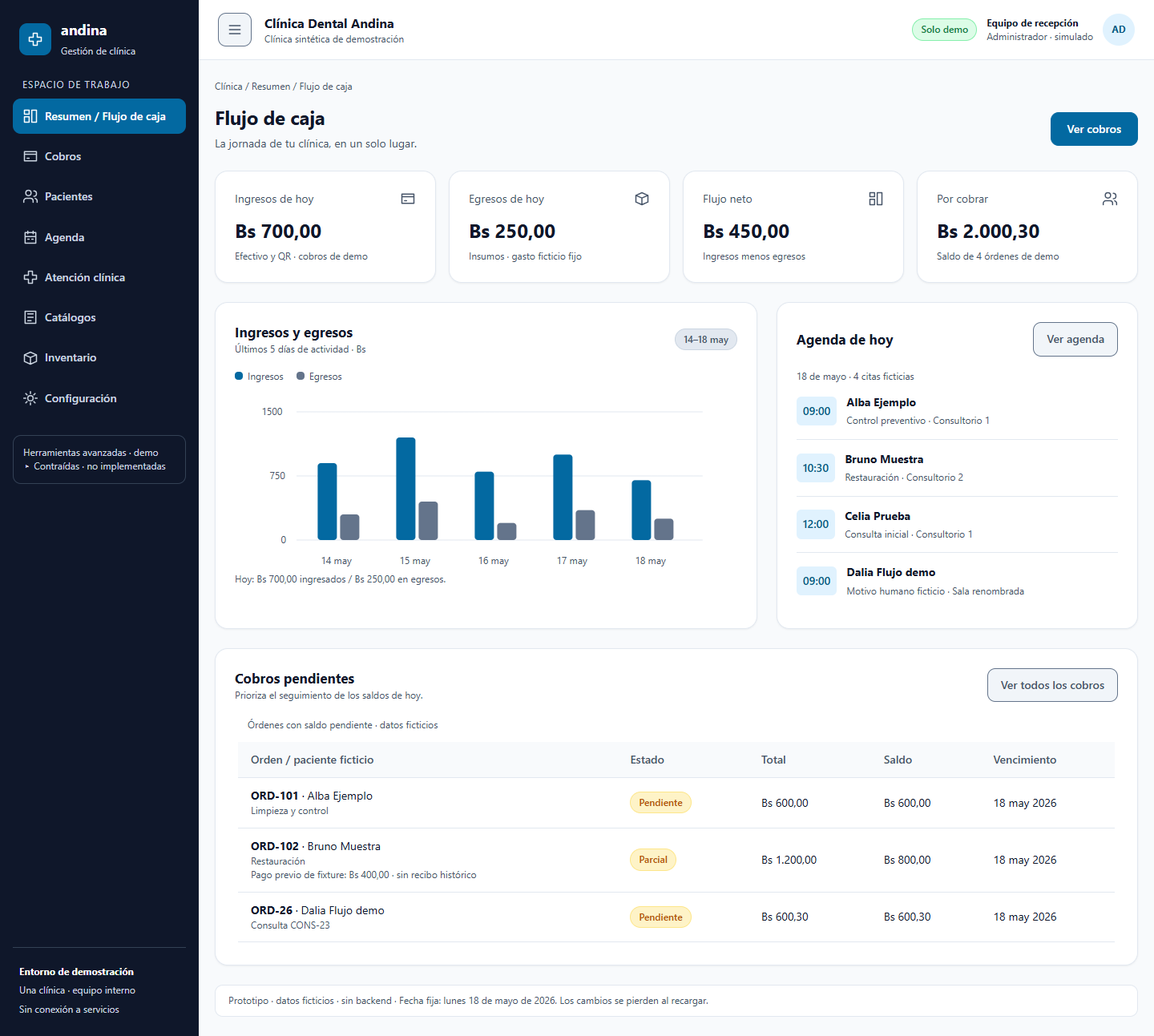
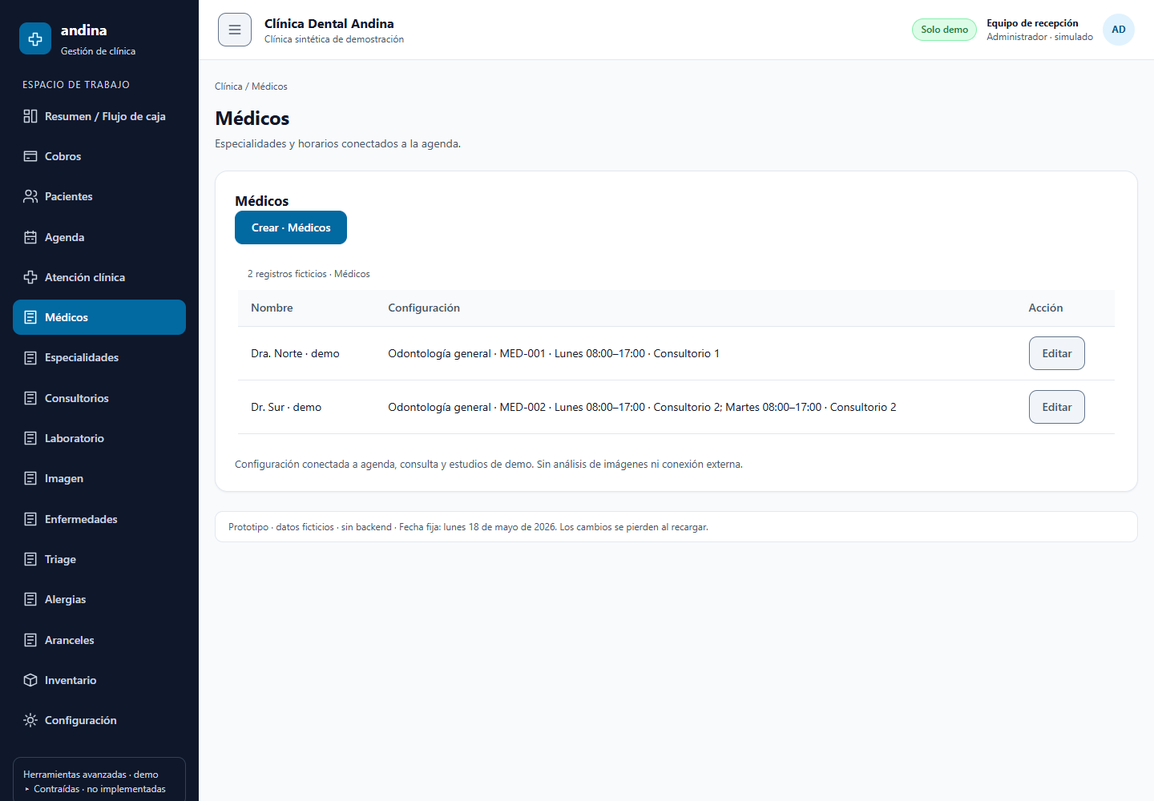
feat(prototype): split resource menus and add habits references and triage

diff --git a/design/erp-workspace/01-unified-workspace.html b/design/erp-workspace/01-unified-workspace.html
@@ -41,7 +41,7 @@ small,.small { font-size:12px; }
 .muted { color:var(--secondary); }
 svg.icon { width:20px; height:20px; flex:none; fill:none; stroke:currentColor; stroke-width:1.8; stroke-linecap:round; stroke-linejoin:round; }
 .shell { display:grid; grid-template-columns:248px minmax(0,1fr); grid-template-rows:auto 1fr; min-height:100vh; }
-.sidebar { grid-row:1 / 3; background:#0f172a; color:#ffffff; padding:24px 16px; display:flex; flex-direction:column; gap:24px; }
+.sidebar { position:sticky; top:0; height:100vh; overflow-y:auto; grid-row:1 / 3; background:#0f172a; color:#ffffff; padding:24px 16px; display:flex; flex-direction:column; gap:24px; }
 .brand { display:flex; gap:12px; align-items:center; padding:0 8px; }
 .brand-mark { width:40px; height:40px; display:grid; place-items:center; background:#0369a1; border-radius:10px; }
 .brand strong { font-size:18px; display:block; }
@@ -205,6 +205,15 @@ body.nav-collapsed .sidebar { display:none; }
   <div class="dialog-actions"><button type="button" data-close="context-dialog">Cancelar</button><button type="submit" class="primary">Guardar antecedente</button></div>
  </form>
 </dialog>
+<dialog id="habits-dialog" aria-labelledby="habits-title">
+ <form id="habits-form" novalidate>
+  <h2 id="habits-title">Editar hábitos</h2>
+  <label>Hábitos<textarea id="habits-text" maxlength="1000" aria-describedby="habits-help"></textarea></label>
+  <p id="habits-help" class="help">Texto libre ficticio · Máximo 1000 caracteres. Vacío significa Sin registrar. Sin clasificación ni diagnóstico automático.</p>
+  <p id="habits-error" class="error" role="alert"></p>
+  <div class="dialog-actions"><button type="button" data-close="habits-dialog">Cancelar</button><button type="submit" class="primary">Guardar hábitos</button></div>
+ </form>
+</dialog>
 <dialog id="catalog-dialog" aria-labelledby="catalog-title">
  <form id="catalog-form" novalidate>
   <h2 id="catalog-title"></h2>
@@ -285,14 +294,22 @@ const iconPaths = {
  inventory:'M3 7l9-4 9 4v10l-9 4-9-4zM3 7l9 4 9-4M12 11v10',
  settings:'M12 8a4 4 0 1 0 0 8 4 4 0 0 0 0-8M12 2v3M12 19v3M2 12h3M19 12h3M5 5l2 2M17 17l2 2M5 19l2-2M17 7l2-2'
 };
-function icon(key) { return `<svg class="icon" viewBox="0 0 24 24" aria-hidden="true"><path d="${iconPaths[key]}"/></svg>`; }
+function icon(key) { return `<svg class="icon" viewBox="0 0 24 24" aria-hidden="true"><path d="${iconPaths[key] || iconPaths.catalogs}"/></svg>`; }
 const pages = {
  overview:['Resumen / Flujo de caja','Flujo de caja','La jornada de tu clínica, en un solo lugar.'],
  payments:['Cobros','Cobros','Saldos y cobros de órdenes ficticias.'],
  patients:['Pacientes','Pacientes','Directorio sintético de la clínica.'],
  agenda:['Agenda','Agenda','Citas de demostración · semana del 18 al 24 de mayo de 2026.'],
  clinical:['Atención clínica','Atención clínica','Resumen de consultas ficticias; no sustituye una historia clínica.'],
- catalogs:['Catálogos','Catálogos','Recursos y estudios ficticios · configuración local para agenda y atención.'],
+ physicians:['Médicos','Médicos','Especialidades y horarios conectados a la agenda.'],
+ specialties:['Especialidades','Especialidades','Referencias de especialidad del equipo ficticio.'],
+ rooms:['Consultorios','Consultorios','Espacios y disponibilidad de la clínica ficticia.'],
+ laboratory:['Laboratorio','Laboratorio','Proveedores y tipos de estudio · solo LABORATORIO.'],
+ imaging:['Imagen','Imagen','Proveedores y tipos de estudio · solo IMAGEN.'],
+ diseases:['Enfermedades','Enfermedades','Referencias de clínica, no diagnósticos de pacientes.'],
+ allergyCatalog:['Alergias','Alergias','Referencias de clínica, distintas de las alergias del paciente.'],
+ triage:['Triage','Triage','Vista inicial de Triage · campos y protocolo por definir'],
+ catalogs:['Aranceles','Aranceles','Procedimientos y tarifas ficticias de consulta.'],
  inventory:['Inventario','Inventario','Disponibilidad y alertas de insumos de demostración.'],
  settings:['Configuración','Configuración','Personaliza este espacio. Todo se guarda solo en memoria.']
 };
@@ -323,7 +340,7 @@ const state = {
   {id:'AV-2',physicianId:'PH-2',weekday:1,start:'08:00',end:'17:00',roomId:'RM-2'},
   {id:'AV-3',physicianId:'PH-2',weekday:2,start:'08:00',end:'17:00',roomId:'RM-2'}
  ],
- providers:[], studyTypes:[], patientContexts:[], nextId:10
+ providers:[], studyTypes:[], diseases:[], allergyCatalog:[], patientContexts:[], nextId:10
 };
 // Preserve every inherited fixture while moving references to stable resource IDs.
 state.appointments.forEach((item,index) => {
@@ -371,7 +388,11 @@ function navigate(page, moveFocus = true) {
  announce('');
  renderNav();
  const renderers = {overview:renderOverview,payments:renderPayments,patients:renderPatients,agenda:renderAgenda,clinical:renderClinical,inventory:renderInventory,catalogs:renderCatalogs,settings:renderSettings};
- renderers[page]();
+ if(catalogRoutes[page] || catalogMode()) {
+  catalogKind=catalogRoutes[page] || modalityViews[page];
+  renderCatalogs();
+ } else if(page==='triage') renderTriage();
+ else renderers[page]();
  setDrawer(false);
  if (moveFocus) $('#main').focus();
 }
@@ -520,18 +541,53 @@ let contextDraft=null;
 function patientContext(patientId) {
  return state.patientContexts.find(item=>item.patientId===patientId) || {patientId,allergies:[],familyHistory:[],personalHistory:[]};
 }
-function clinicalContextMarkup(patientId) {
+function clinicalContextMarkup(patientId,readOnly=false) {
  const context=patientContext(patientId);
- return Object.entries(contextLabels).map(([kind,label])=>`
+ const habits=`<section style="margin-top:24px" aria-label="Hábitos"><div class="card-heading"><h3>Hábitos</h3>${readOnly?'':'<button type="button" data-habits-edit>Editar hábitos</button>'}</div><p class="summary" data-habits-summary>${escapeText(context.habits || 'Sin registrar')}</p></section>`;
+ return habits+'<div data-context-history>'+Object.entries(contextLabels).map(([kind,label])=>`
   <section style="margin-top:24px" aria-label="${label}">
-   <div class="card-heading"><h3>${label}</h3><button type="button" data-context-add="${kind}">Añadir · ${label}</button></div>
+   <div class="card-heading"><h3>${label}</h3>${readOnly?'':`<button type="button" data-context-add="${kind}">Añadir · ${label}</button>`}</div>
    <div id="context-${kind}">${context[kind].map(entry=>`
     <div class="summary" style="margin-bottom:12px">
      <p>${escapeText(kind==='allergies'?`${entry.substance} · ${entry.reaction} · ${entry.severity}`:kind==='familyHistory'?`${entry.relation} · ${entry.condition}`:entry.notes)}</p>
-     <button type="button" data-context-edit="${entry.id}" data-kind="${kind}">Editar</button>
-     <button type="button" data-context-remove="${entry.id}" data-kind="${kind}">Eliminar</button>
+     ${readOnly?'':`<button type="button" data-context-edit="${entry.id}" data-kind="${kind}">Editar</button>
+     <button type="button" data-context-remove="${entry.id}" data-kind="${kind}">Eliminar</button>`}
     </div>`).join('') || '<p class="help">Sin registrar</p>'}</div>
-  </section>`).join('');
+  </section>`).join('')+'</div>';
+}
+function storedPatientContext(patientId) {
+ let context=state.patientContexts.find(item=>item.patientId===patientId);
+ if(!context) {context=patientContext(patientId);state.patientContexts.push(context);}
+ return context;
+}
+let habitsPatientId=null;
+function openHabits(trigger) {
+ habitsPatientId=$('#clinical-patient').value;
+ $('#habits-text').value=patientContext(habitsPatientId).habits || '';
+ $('#habits-error').textContent='';
+ openDialog('#habits-dialog',trigger);
+}
+$('#habits-form').onsubmit=event=>{
+ event.preventDefault();
+ const habits=$('#habits-text').value.trim();
+ if(habits.length>1000) {$('#habits-error').textContent='Hábitos admite un máximo de 1000 caracteres.';return;}
+ if(!state.patients.some(patient=>patient.id===habitsPatientId)) return;
+ storedPatientContext(habitsPatientId).habits=habits;
+ closeDialog($('#habits-dialog'));
+ $('#clinical-patient').dispatchEvent(new Event('change'));
+ $('[data-habits-edit]').focus();
+ announce('Hábitos guardados. Solo en memoria; sin interpretación clínica.');
+};
+function renderTriage() {
+ $('#view').innerHTML=`<section class="card"><h2>Vista inicial de Triage · campos y protocolo por definir</h2>
+  <p class="help">Solo lectura del expediente ficticio. Sin puntuación, urgencia, recomendaciones ni decisiones clínicas.</p>
+  <label style="margin-top:24px">Paciente ficticio<select id="triage-patient"><option value="">Seleccionar paciente</option>${state.patients.map(patient=>`<option value="${escapeText(patient.id)}">${escapeText(patient.name)} · ${escapeText(patient.id)}</option>`).join('')}</select></label>
+  <div id="triage-context"></div></section>`;
+ const update=()=>{
+  const id=$('#triage-patient').value;
+  $('#triage-context').innerHTML=id?clinicalContextMarkup(id,true):'<p class="empty">Selecciona un paciente para ver su contexto registrado.</p>';
+ };
+ $('#triage-patient').onchange=update;update();
 }
 function field(id,label,value='',type='text') {
  return `<label>${label}<input id="${id}" type="${type}" maxlength="120" value="${escapeText(value)}"></label>`;
@@ -555,8 +611,7 @@ $('#context-form').onsubmit=event=>{
  const fields=kind==='allergies'?['substance','reaction','severity']:kind==='familyHistory'?['relation','condition']:['notes'];
  const values=Object.fromEntries(fields.map(key=>[key,$(`#context-${key}`).value.trim()]));
  if(fields.some(key=>!values[key])) { $('#context-error').textContent='Completa los campos del antecedente ficticio.'; return; }
- let context=state.patientContexts.find(item=>item.patientId===patientId);
- if(!context) { context=patientContext(patientId); state.patientContexts.push(context); }
+ const context=storedPatientContext(patientId);
  const entry=context[kind].find(item=>item.id===id);
  if(entry) Object.assign(entry,values); else context[kind].push({id:newId('CX'),...values});
  closeDialog($('#context-dialog'));
@@ -566,7 +621,10 @@ $('#context-form').onsubmit=event=>{
 };
 
 // Catalog editing has one validation/commit path; failed or closed forms never allocate IDs.
-const catalogLabels={physicians:'Médicos',specialties:'Especialidades',rooms:'Consultorios',providers:'Laboratorio e imagen',studyTypes:'Tipos de estudio',procedures:'Procedimientos'};
+const catalogLabels={physicians:'Médicos',specialties:'Especialidades',rooms:'Consultorios',providers:'Proveedores',studyTypes:'Tipos de estudio',procedures:'Procedimientos',diseases:'Enfermedades',allergyCatalog:'Alergias'};
+const catalogRoutes={physicians:'physicians',specialties:'specialties',rooms:'rooms',catalogs:'procedures',diseases:'diseases',allergyCatalog:'allergyCatalog'};
+const modalityViews={laboratory:'providers',imaging:'providers'};
+function catalogMode() {return state.page==='laboratory'?'LABORATORIO':state.page==='imaging'?'IMAGEN':null;}
 let catalogKind='physicians', catalogDraft=null;
 function options(collection,selected,empty=false) {
  return `${empty?'<option value="">Sin proveedor predeterminado</option>':''}${collection.map(item=>`<option value="${item.id}" ${item.id===selected?'selected':''}>${escapeText(item.name)}</option>`).join('')}`;
@@ -577,27 +635,33 @@ function catalogDetails(kind,item) {
  if(kind==='providers') return `${item.mode} · ${item.contact || 'Sin contacto'}`;
  if(kind==='procedures') return money(item.priceCents);
  if(kind==='studyTypes') return `${item.mode} · ${money(item.priceCents)} · ${item.providerId?resourceName('providers',item.providerId):'Sin proveedor predeterminado'}`;
+ if(kind==='diseases' || kind==='allergyCatalog') return item.description || 'Sin descripción';
  return 'Especialidad de demo';
 }
 function renderCatalogs() {
+ const mode=catalogMode(), kinds=mode?['providers','studyTypes']:[];
+ const records=state[catalogKind].filter(item=>!mode || item.mode===mode);
+ const reference=['diseases','allergyCatalog'].includes(catalogKind);
  $('#view').innerHTML=`<section class="card">
-  <div class="tabs" role="tablist" aria-label="Catálogos de demo">${Object.entries(catalogLabels).map(([kind,label])=>`<button type="button" role="tab" id="catalog-tab-${kind}" aria-controls="catalog-results" aria-selected="${kind===catalogKind}" tabindex="${kind===catalogKind?0:-1}" data-catalog-tab="${kind}">${label}</button>`).join('')}</div>
+  ${mode?`<div class="tabs" role="tablist" aria-label="Recursos de ${mode}">${kinds.map(kind=>`<button type="button" role="tab" id="catalog-tab-${kind}" aria-controls="catalog-results" aria-selected="${kind===catalogKind}" tabindex="${kind===catalogKind?0:-1}" data-catalog-tab="${kind}">${catalogLabels[kind]}</button>`).join('')}</div>`:`<h2>${catalogLabels[catalogKind]}</h2>`}
+  ${reference?'<p class="help">Referencias ficticias de la clínica: no se aplican al paciente ni modifican sus alergias o antecedentes. Sin códigos médicos ni diagnósticos inferidos.</p>':''}
   <button type="button" id="catalog-add" class="primary">Crear · ${catalogLabels[catalogKind]}</button>
-  <div id="catalog-results" role="tabpanel" aria-labelledby="catalog-tab-${catalogKind}" style="margin-top:24px">
+  <div id="catalog-results" ${mode?`role="tabpanel" aria-labelledby="catalog-tab-${catalogKind}"`:''} style="margin-top:24px">
    <div class="table-wrap" tabindex="0" role="region" aria-label="Registros de catálogo"><table>
-    <caption>${state[catalogKind].length} registros ficticios · ${catalogLabels[catalogKind]}</caption>
+    <caption>${records.length} registros ficticios · ${catalogLabels[catalogKind]}</caption>
     <thead><tr><th scope="col">Nombre</th><th scope="col">Configuración</th><th scope="col">Acción</th></tr></thead>
-    <tbody>${state[catalogKind].map(item=>`<tr><td>${escapeText(item.name)}</td><td>${escapeText(catalogDetails(catalogKind,item))}</td><td><button type="button" data-catalog-edit="${item.id}">Editar</button></td></tr>`).join('') || '<tr><td colspan="3">Sin registrar</td></tr>'}</tbody>
+    <tbody>${records.map(item=>`<tr><td>${escapeText(item.name)}</td><td>${escapeText(catalogDetails(catalogKind,item))}</td><td><button type="button" data-catalog-edit="${item.id}">Editar</button></td></tr>`).join('') || '<tr><td colspan="3">Sin registrar</td></tr>'}</tbody>
    </table></div>
-  </div><p class="help" style="margin-top:24px">Configuración conectada a agenda, consulta y estudios de demo. Sin análisis de imágenes ni conexión externa.</p>
+  </div><p class="help" style="margin-top:24px">${reference?'Lista de referencia local, no historia clínica.':'Configuración conectada a agenda, consulta y estudios de demo.'} Sin análisis de imágenes ni conexión externa.</p>
  </section>`;
  $('#catalog-add').onclick=()=>openCatalog();
  $$('[data-catalog-tab]').forEach(tab=>{
-  tab.onclick=()=>{catalogKind=tab.dataset.catalogTab;renderCatalogs();$(`#catalog-tab-${catalogKind}`).focus();};
+  const select=kind=>{catalogKind=kind;modalityViews[state.page]=kind;renderCatalogs();$(`#catalog-tab-${kind}`).focus();};
+  tab.onclick=()=>select(tab.dataset.catalogTab);
   tab.onkeydown=event=>{
-   const kinds=Object.keys(catalogLabels), index=kinds.indexOf(catalogKind);
+   const index=kinds.indexOf(catalogKind);
    const target=event.key==='ArrowRight'?kinds[(index+1)%kinds.length]:event.key==='ArrowLeft'?kinds[(index+kinds.length-1)%kinds.length]:event.key==='Home'?kinds[0]:event.key==='End'?kinds.at(-1):null;
-   if(target) {event.preventDefault();catalogKind=target;renderCatalogs();$(`#catalog-tab-${target}`).focus();}
+   if(target) {event.preventDefault();select(target);}
   };
  });
 }
@@ -612,7 +676,7 @@ function slotMarkup(slot={weekday:1,start:'08:00',end:'12:00',roomId:state.rooms
 }
 function openCatalog(id,trigger) {
  const kind=catalogKind, item=state[kind].find(entry=>entry.id===id) || {};
- catalogDraft={kind,id};
+ catalogDraft={kind,id,mode:catalogMode()};
  $('#catalog-title').textContent=`${id?'Editar':'Crear'} · ${catalogLabels[kind]}`;
  let markup=field('cat-name','Nombre requerido',item.name);
  if(kind==='physicians') {
@@ -620,12 +684,14 @@ function openCatalog(id,trigger) {
    `<fieldset><legend>Especialidades (al menos una)</legend>${state.specialties.map(specialty=>`<label class="check"><input type="checkbox" name="specialty" value="${specialty.id}" ${item.specialtyIds?.includes(specialty.id)?'checked':''}>${escapeText(specialty.name)}</label>`).join('') || '<p>Crea primero una especialidad.</p>'}</fieldset>`;
   const slots=state.availability.filter(slot=>slot.physicianId===id);
   markup+=`<div id="availability-slots" class="form-section">${(slots.length?slots:[undefined]).map(slot=>slotMarkup(slot)).join('')}</div><button type="button" id="add-slot">Añadir horario</button>`;
+ } else if(kind==='diseases' || kind==='allergyCatalog') {
+  markup+=field('cat-description','Descripción (opcional)',item.description);
  } else if(kind==='rooms') {
   markup+=field('cat-location','Ubicación (opcional)',item.location)+`<label class="check"><input id="cat-active" type="checkbox" ${item.active!==false?'checked':''}>Activo</label>`;
  } else if(kind==='procedures') {
   markup+=field('cat-price','Precio del procedimiento (Bs)',((item.priceCents || 0)/100).toFixed(2),'number');
  } else if(kind==='providers' || kind==='studyTypes') {
-  markup+=`<label>Modalidad<select id="cat-mode">${['LABORATORIO','IMAGEN'].map(mode=>`<option ${item.mode===mode?'selected':''}>${mode}</option>`).join('')}</select></label>`;
+  markup+=`<label>Modalidad<select id="cat-mode">${['LABORATORIO','IMAGEN'].map(mode=>`<option ${(item.mode || catalogMode())===mode?'selected':''}>${mode}</option>`).join('')}</select></label>`;
   if(kind==='providers') markup+=field('cat-contact','Contacto ficticio (opcional)',item.contact);
   else markup+=`<label>Proveedor predeterminado (opcional)<select id="cat-provider"></select></label>`+field('cat-price','Precio (Bs, máximo dos decimales)',((item.priceCents || 0)/100).toFixed(2),'number');
  }
@@ -644,6 +710,7 @@ function saveCatalog() {
  const name=$('#cat-name').value.trim();
  const normalized=value=>value.trim().toLocaleLowerCase();
  if(!name) return 'Introduce un nombre requerido.';
+ if(name.length>120) return 'El nombre admite hasta 120 caracteres.';
  if(state[kind].some(item=>item.id!==id && normalized(item.name)===normalized(name))) return 'Este nombre ya existe en el catálogo.';
  const values={name};
  let slots=[];
@@ -659,6 +726,9 @@ function saveCatalog() {
    if(!state.rooms.some(room=>room.id===slot.roomId)) return 'Selecciona un consultorio de disponibilidad.';
   }
   if(slots.some((slot,index)=>slots.slice(index+1).some(other=>slot.weekday===other.weekday && slot.start<other.end && other.start<slot.end))) return 'No se permiten horarios superpuestos para el mismo médico.';
+ } else if(kind==='diseases' || kind==='allergyCatalog') {
+  values.description=$('#cat-description').value.trim();
+  if(values.description.length>120) return 'La descripción admite hasta 120 caracteres.';
  } else if(kind==='rooms') {
   values.location=$('#cat-location').value.trim(); values.active=$('#cat-active').checked;
  } else if(kind==='procedures') {
@@ -676,6 +746,7 @@ function saveCatalog() {
   }
   // Existing study defaults cannot silently become incompatible after a provider edit.
   if(kind==='providers' && state.studyTypes.some(study=>study.providerId===id && study.mode!==values.mode)) return 'La modalidad está vinculada a un tipo de estudio; cambia primero su proveedor.';
+  if(values.mode!==catalogDraft.mode) return 'La modalidad debe corresponder a este menú. Crea el recurso desde Laboratorio o Imagen según corresponda.';
  }
  const existing=state[kind].find(item=>item.id===id);
  const saved=existing || {id:newId('CAT')};
@@ -1007,6 +1078,8 @@ document.addEventListener('click',event=>{
  const pageButton=event.target.closest('[data-page]'); if(pageButton) navigate(pageButton.dataset.page);
  const chartButton=event.target.closest('[data-chart]');
  if(chartButton) {navigate('clinical');$('#clinical-patient').value=chartButton.dataset.chart;$('#clinical-patient').dispatchEvent(new Event('change'));}
+ const habits=event.target.closest('[data-habits-edit]');
+ if(habits) openHabits(habits);
  const addContext=event.target.closest('[data-context-add]');
  if(addContext) openContext(addContext.dataset.contextAdd,null,addContext);
  const editContext=event.target.closest('[data-context-edit]');

diff --git a/design/erp-workspace/README.md b/design/erp-workspace/README.md
@@ -6,10 +6,24 @@ Open [`01-unified-workspace.html`](01-unified-workspace.html) directly in a mode
 
 Tradeoff: a coherent single-clinic workflow in one self-contained HTML file, **not** production clinical, accounting, payment or authorization software. Never enter real personal or medical information.
 
+## Find the new areas (S8–S11)
+
+| Sidebar entry | What it opens |
+| --- | --- |
+| **Médicos / Especialidades / Consultorios** | Each resource's existing catalog directly; physician specialties and availability still feed Agenda. |
+| **Laboratorio / Imagen** | Separate modality-filtered pages, each with **Proveedores / Tipos de estudio** subviews. Both reuse the original arrays and stable IDs used by consultation requests. Forms default to the page's modality; cross-modality saves are rejected without moving or losing the record. |
+| **Enfermedades / Alergias** | Separate, initially empty clinic reference lists: required unique name and optional description, each up to 120 characters. Create/edit only; no medical codes, diagnosis inference or automatic application to patients. Actual patient allergies remain in the chart. |
+| **Triage** | **Vista inicial de Triage · campos y protocolo por definir**. Select a patient to read their saved allergies, family/personal history and habits. Empty selection is safe. No urgency, score, recommendations, vitals or clinical-decision save workflow. |
+| **Aranceles** | Existing procedures and editable tariffs (legacy internal route `catalogs`). |
+
+**Hábitos:** open **Pacientes → Ver expediente** or the patient context in **Atención clínica**, then **Editar hábitos → Guardar hábitos**. Free text, maximum 1000 characters; clear and save to show **Sin registrar**. It is patient-specific and persists only until reload. Cancel/Escape discard edits; navigating afterward never applies the discarded draft. No presets, interpretation or automatic risk classification. Triage reads this same saved field, not another copy.
+
+All new entries participate in **Configuración → Navegación** hide/show/reorder. One shared header/sidebar remains; the long sidebar scrolls within the viewport and the mobile drawer retains keyboard trapping/Escape. No new permissions or patient login role.
+
 ## Try the complete workflow
 
-1. **Catálogos:** create a specialty and active consultorio. Create a physician, select the specialty and configure weekday/start/end/consultorio availability. Multiple windows are supported; adjacent windows are allowed, overlapping same-physician windows are rejected. The default new window is Monday 08:00–12:00. Names are required and case-insensitively unique within each catalog; optional physician documents are unique. Rooms have optional location and an active flag.
-2. **Laboratorio e imagen / Tipos de estudio:** create one LABORATORIO and one IMAGEN provider, then matching study types and prices. A matching default provider is optional in the catalog but a compatible provider is required when requesting a study. **Procedimientos** exposes editable demo tariffs (initial Consulta demo Bs 300 and Control demo Bs 600).
+1. **Especialidades / Consultorios / Médicos:** create a specialty and active consultorio. Create a physician, select the specialty and configure weekday/start/end/consultorio availability. Multiple windows are supported; adjacent windows are allowed, overlapping same-physician windows are rejected. The default new window is Monday 08:00–12:00. Names are required and case-insensitively unique within each catalog; optional physician documents are unique. Rooms have optional location and an active flag.
+2. **Laboratorio / Imagen:** open each menu's **Proveedores** and **Tipos de estudio** to create one provider and matching study types/prices per modality. A matching default provider is optional in the catalog but a compatible provider is required when requesting a study. **Aranceles → Procedimientos** exposes editable demo tariffs (initial Consulta demo Bs 300 and Control demo Bs 600).
 3. **Pacientes:** register a fictional patient (name 2–80 characters; unique demo document 3–30 Unicode letters, digits or hyphens), then **Ver expediente**. Add/edit/remove allergies (substance, reaction, recorded severity), family history (relation, condition) and personal-history notes. Empty information says **Sin registrar**, never asserts an absence of allergies. Each patient's records remain separate.
 4. **Agenda → Agendar cita:** select that patient, physician and active consultorio; use **2026-05-18**, a time inside the configured Monday window, duration 15–240 integer minutes and a reason. The entire appointment must fit one matching availability window. Doctor/room overlaps, unknown records, inactive rooms and invalid availability are rejected without creating records. Day/week, professional, consultorio and status filters remain available. A reference-date field supports other dates without consulting the current clock.
 5. **Iniciar consulta / Continuar atención:** the appointment opens its own patient context and one EN_CURSO consultation. Its linked appointment becomes **En atención** (`in_progress`) in clinical rows and the agenda filter; untouched fixtures retain Programada/Confirmada. Enter fictional human-written motivo, anamnesis, exploración and diagnóstico; select procedures. **Guardar progreso** explicitly saves fields and selections across navigation. No text or diagnosis is invented. Save before navigating away: unsaved text is not a durable draft.
@@ -24,7 +38,7 @@ Tradeoff: a coherent single-clinic workflow in one self-contained HTML file, **n
 - **Resumen / Flujo de caja:** initial Bs 700 income, Bs 250 expenses, Bs 450 net and Bs 1,400 pending. Fixture paid amounts (Bs 400 on ORD-102, Bs 300 on ORD-103) are explicitly labeled prior fixture payments without historical receipts. The five-day chart's earlier values remain independent fixtures. Only confirmed cash/QR adds income.
 - **Cobros:** search by order/patient and combine pending, partial or paid filters. On ORD-102, a Bs 200 cash payment reduces its Bs 800 balance to Bs 600 and updates income/net/pending to Bs 900/650/1,200. Empty, zero, negative, over-balance and fractional-cent payments are rejected; Cancel/Escape leave balances unchanged. Full settlement removes the cash action.
 - **Inventario:** name/code and availability filters retain coherent low-stock counts. Stock is not editable.
-- **Configuración:** clinic/contact, sourced blue/teal action color and comfortable/compact density remain editable. Navigation includes the new catalogs; hide/show/reorder controls work and Configuration cannot be hidden. Staff roles remain Administrador, Recepcionista and Médico; custom local roles and simulated permission checkboxes persist until reload. **Paciente is a record, never a login role.** Permissions are not real authorization.
+- **Configuración:** clinic/contact, sourced blue/teal action color and comfortable/compact density remain editable. Navigation includes all eight direct new menus plus Aranceles; hide/show/reorder controls work and Configuration cannot be hidden. Staff roles remain Administrador, Recepcionista and Médico; custom local roles and simulated permission checkboxes persist until reload. **Paciente is a record, never a login role.** Permissions are not real authorization.
 
 ## Accessibility and boundaries
 
@@ -42,7 +56,7 @@ node design/erp-workspace/smoke.mjs
 
 The script resolves existing Playwright using `createRequire` at `apps/mf-erp/package.json` and the existing Chromium cache at `apps/mf-erp/node_modules/.cache/playwright`. It does not install/download anything. Browser contexts close in `finally`; browser scratch stays outside the repository. Tests use file URLs and public DOM controls, never closure arrays or Git history. HTTP is blocked; API/storage writes and browser errors are trapped.
 
-Observed T3 evidence for that exact command:
+Observed evidence for that exact command:
 
 | Run | Actual result |
 | --- | --- |
@@ -52,12 +66,15 @@ Observed T3 evidence for that exact command:
 | Expanded mobile/rejection coverage | Exit 0: **PASS 304 checks**, zero HTTP/API/storage writes and zero page errors. |
 | S5 lifecycle correction RED | Exit 1: `Starting consultation marks linked appointment En atención`; no final count printed. The linked appointment still showed Programada. |
 | S5 lifecycle correction GREEN | Exit 0: **PASS 319 checks**, preserving all 304 assertions and adding linked appointment states, clinical labels, agenda filters, invalid/canceled-form invariance and reopen/order/income preservation. Zero HTTP/API/storage writes and page errors. |
+| S8–S11 RED | Exit 1 on `S8-S11 eight direct business menus, not generic catalog tabs`; discovery printed menus **0/8**, habits **0**, references **0/2**, Triage **0/1**. No final count printed. |
+| S8–S11 implementation checks | Two test-only corrections: disambiguate the Hábitos textbox from its labeled region; await the responsive menu state after resizing before opening the drawer. Existing business assertions were not removed. |
+| S8–S11 GREEN | Exit 0: **PASS 406 checks**, including all prior 319 business checks (obsolete tab-navigation helpers now click real menus). Zero HTTP/API/storage writes and page errors. |
 
 The inherited 207 checks remain, including all original 121 business/source checks. T3 adds a fresh independent context that creates patient/history/resources, rejects invalid/conflicting appointments, follows correct clinical context, saves/reopens one consultation, requests both modalities, records results, checks billing snapshots, exercises invalid/expired/canceled/confirmed/repeated/stale QR, finishes with cash and unique receipts, checks exact KPIs, reopens the closed consultation without duplicate billing, tests mobile forms/dialogs and allows pending-study completion without invented results. Reload resets everything. Palette/font plus overlay/shadow self-checks pass. No visual RED/GREEN baseline or pixel-diff test is claimed.
 
 T2 historical evidence remains: its author RED waited for absent `[data-chart="DEMO-001"]`, then GREEN passed 207 checks. The parent's old combined command printed PASS207 but timed out during shutdown; that old-candidate command was not replayed. T3 results above are separate expanded-candidate executions with observed exit codes.
 
-Current full-page screenshots: [`desktop.png`](desktop.png), dashboard after the new Bs 600.30 order is issued but before payment (1440×1000 viewport), and [`mobile.png`](mobile.png), closed consultation with results and patient antecedents (390×844 viewport). Heights can exceed the viewport. Live catalog labels can change; order/receipt lines retain their issued snapshots.
+Current full-page screenshots: [`desktop.png`](desktop.png), Médicos with the expanded direct sidebar (1440×1000 viewport), and [`mobile.png`](mobile.png), initial Triage reading saved patient habits and antecedents (390×844 viewport). Heights can exceed the viewport. Live catalog labels can change; order/receipt lines retain their issued snapshots.
 
 ## Shared model / handoff
 
@@ -65,7 +82,8 @@ Everything lives inside the existing artboard closure's `state`, not a global fa
 
 | Records | Links / representation |
 | --- | --- |
-| `patients`, `patientContexts` | Patient ID remains the demo document; per-patient allergies/familyHistory/personalHistory have stable entry IDs. Contexts allocate only on successful save. |
+| `patients`, `patientContexts` | Patient ID remains the demo document; per-patient allergies/familyHistory/personalHistory have stable entry IDs; `habits` is optional plain text on the same context. Contexts allocate only on successful save through `storedPatientContext`. |
+| `diseases`, `allergyCatalog` | Independent clinic reference lists with stable IDs, name and optional description; no patient mapping or clinical decisions. |
 | `specialties`, `physicians`, `rooms`, `availability` | Physician specialtyIds; windows carry physicianId, weekday 0–6, start/end and roomId. Catalog edits preserve IDs. |
 | `providers`, `studyTypes`, `procedures` | Provider mode/contact; study mode/nullable default providerId/priceCents; procedure name/priceCents. |
 | `appointments` | Stable id, patient, physicianId, roomId, ISO date, HH:mm time, duration, reason in service and status: scheduled/confirmed until started, in_progress during consultation, attended after completion. Closed-consultation reopening never regresses the linked status. Inherited professional/room strings are legacy metadata only. |
@@ -74,4 +92,4 @@ Everything lives inside the existing artboard closure's `state`, not a global fa
 
 **All internal money is now integer cents**, including inherited orders, expenses, confirmed payment totals, new study/procedure prices and receipt amounts. `money` converts only for display; `parseCents` validates decimal inputs. Prior fixture income is 70000 cents; `paymentTotalCents` adds only new confirmed settlements. `newId` allocates after validation. Reuse `addPatient`, `saveCatalog`, `createAppointment`, `startConsultation`, `saveConsultation` and especially the single `registerPayment` ledger/receipt path rather than adding parallel mutation shapes.
 
-Coverage: **S1–S3 preserved; S4 studies connected; S5 consultation flow; S6 simulated QR/cash/receipt; S7 same-artboard end-to-end prototype**. T4 parent verification/canvas and all real production integrations remain outside this unit.
+Coverage: **S1–S7 preserved; S8 direct resource menus and modality isolation; S9 saved per-patient habits; S10 separate clinic reference catalogs; S11 initial read-only Triage**. New public-UI checks cover menu titles/breadcrumb/active state, modality default/filter/rejection and retained studies, editable tariffs, habits save/edit/clear/1000-character boundary/cancel/navigation/isolation/reload, real antecedent summaries in Triage, safe reference create/edit/duplicate validation without patient changes, settings hide/show/order and all eight mobile pages/forms plus long-drawer keyboard/viewport containment. T4 parent verification/canvas and all real production integrations remain outside this unit.
